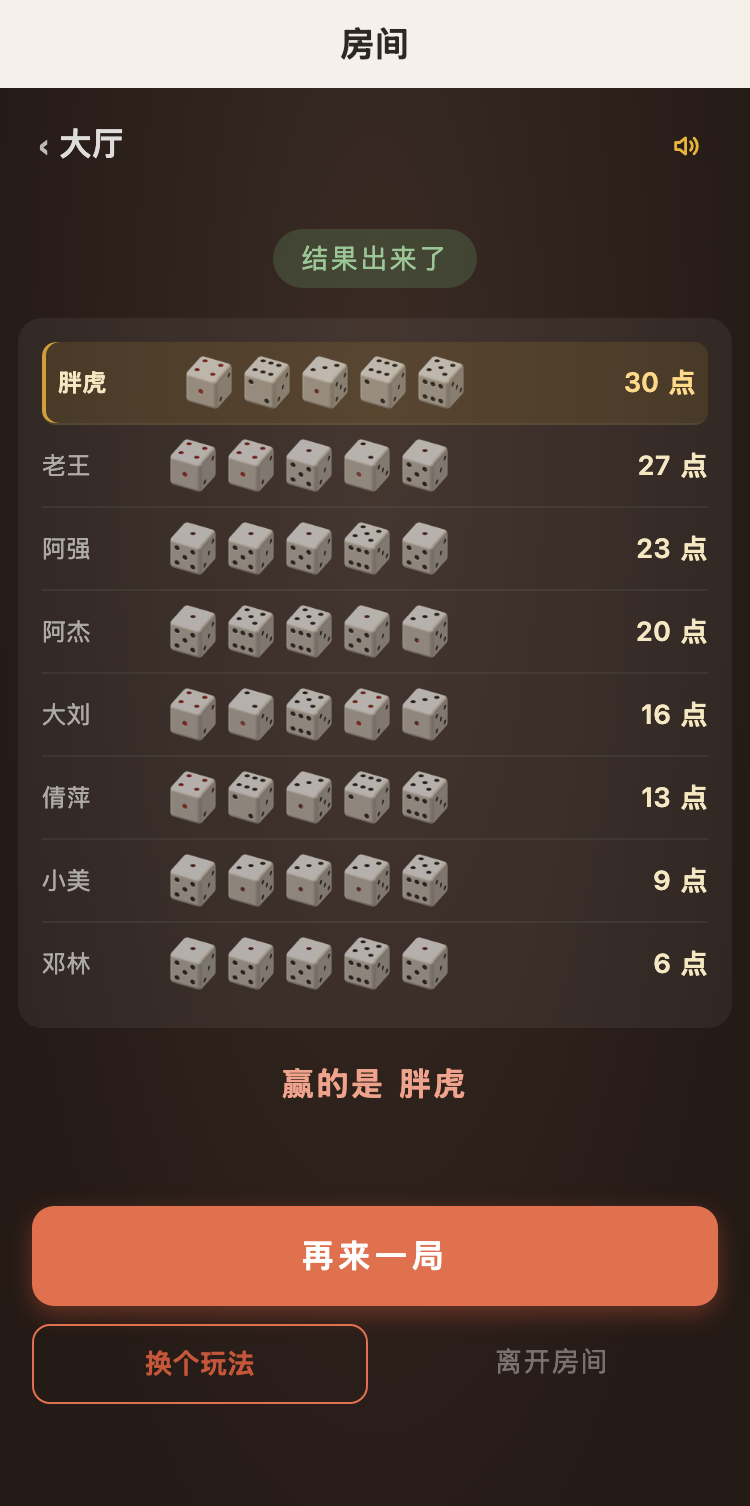
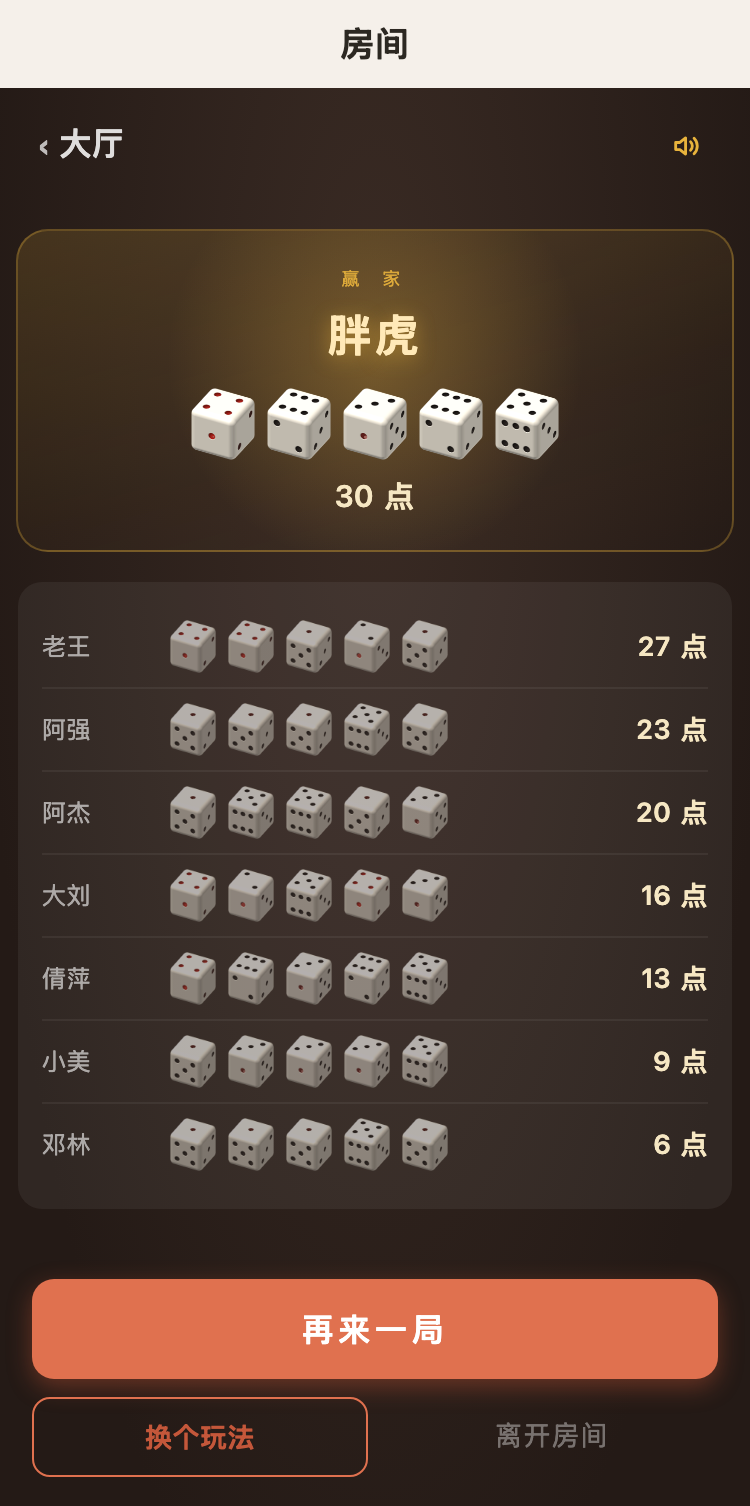
feat(3.9.45): 结算页分出层级 —— 赢家独占顶部，其余缩成列表
改造前是 8 行等大的列表：赢家只是行底色变金色，和其他人一样高 ——
一局的高光时刻看起来像一张"成绩单"，而不是"有人赢了"。

现在分两层：
① 英雄区：赢家名 + 5 颗骰子（逐颗落位动画）+ 大点数 + 光晕脉冲
② 其余人缩成小行排在下面

两个细节：
· 列表里**去掉赢家** —— 他已经在大图里，再列一遍既是重复、又正好把底部的
  「再来一局」挤下屏（8 人局实测）。
· topDice / restRanked 都是 decorate 里的派生字段，不动服务端。

diff --git a/outputs/ui/room-dice8.html b/outputs/ui/room-dice8.html
@@ -77,7 +77,8 @@ view, text, button, input, textarea { box-sizing: border-box }
   box-shadow: var(--sh-1);
 }
 .card.hl { border: 1.5px solid var(--brand); box-shadow: var(--sh-2) }
-.card.flat { background: #F5F1EB; box-shadow: none }
+
+.card.flat { background: rgba(255, 255, 255, .05); box-shadow: none }
 
 .lbl {
   font-size: 10.5px;
@@ -410,15 +411,31 @@ view, text, button, input, textarea { box-sizing: border-box }
 }
 
 
+.cs-felt-img {
+  position: absolute; left: 0; right: 0; top: 0; bottom: 0;
+  width: 100%; height: 100%;
+  
+  opacity: .92;
+}
+
+
+.cs-prop {
+  position: absolute;
+  width: 23px; height: 25px;
+  opacity: .5;
+  filter: drop-shadow(0 2px 4px rgba(0,0,0,.55));
+  pointer-events: none;
+}
+.cs-prop.p1 { left: 13px; bottom: 23px; transform: rotate(-18deg) }
+.cs-prop.p2 { right: 15px; bottom: 38px; transform: rotate(24deg); opacity: .38 }
+
+
 .cs-felt {
   position: absolute; left: 0; right: 0; top: 0; bottom: 0;
   background:
-    repeating-linear-gradient(45deg,
-      rgba(255,255,255,.014) 0 1px, rgba(0,0,0,.014) 1px 2px),
-    repeating-linear-gradient(-45deg,
-      rgba(255,255,255,.014) 0 1px, rgba(0,0,0,.014) 1px 2px),
-    radial-gradient(ellipse 80% 60% at 50% 45%,
-      #3A2E24 0%, #2A211A 45%, #1F1713 100%);
+    
+    radial-gradient(ellipse 78% 58% at 50% 42%,
+      rgba(92,74,58,.30) 0%, rgba(38,29,23,.55) 46%, rgba(24,18,15,.9) 100%);
 }
 
 .cs-spot {
@@ -679,6 +696,63 @@ view, text, button, input, textarea { box-sizing: border-box }
   background: linear-gradient(135deg, #E88060, #CE5738);
   color: #fff; font-size: 16px; font-weight: 700;
   box-shadow: 0 4px 12px rgba(206,87,56,.4);
+}
+
+
+.over-hero {
+  position: relative; overflow: hidden;
+  width: 100%;
+  padding: 17px 12px 15px;
+  border-radius: var(--r-3);
+  display: flex; flex-direction: column; align-items: center;
+  background: linear-gradient(165deg, rgba(232,179,60,.16) 0%, rgba(232,179,60,.04) 60%, rgba(0,0,0,0) 100%);
+  border: 1px solid rgba(232,179,60,.30);
+  animation: heroWin .52s cubic-bezier(.34, 1.4, .64, 1) backwards;
+}
+@keyframes heroWin {
+  0%   { opacity: 0; transform: scale(.92) translateY(7px) }
+  100% { opacity: 1; transform: scale(1) translateY(0) }
+}
+.oh-glow {
+  position: absolute; width: 210px; height: 210px; border-radius: 50%;
+  left: 50%; top: 40%; margin-left: -105px; margin-top: -105px;
+  background: radial-gradient(circle, rgba(232,179,60,.30) 0%, rgba(232,179,60,0) 70%);
+  animation: ohPulse 2.2s ease-in-out infinite;
+}
+@keyframes ohPulse {
+  0%, 100% { opacity: .75; transform: scale(1) }
+  50%      { opacity: 1;   transform: scale(1.08) }
+}
+.oh-crown {
+  position: relative;
+  font-size: 9px; letter-spacing: 4px;
+  color: rgba(232,179,60,.9);
+}
+.oh-name {
+  position: relative;
+  margin-top: 3px;
+  font-size: 22px; font-weight: 700; color: #FFE9B8;
+  letter-spacing: 1.5px;
+  text-shadow: 0 2px 10px rgba(232,179,60,.45);
+}
+.oh-dice {
+  position: relative;
+  margin-top: 9px;
+  display: flex; gap: 5px;
+}
+.oh-die {
+  width: 33px; height: 36px;
+  animation: ohDie .46s cubic-bezier(.34, 1.4, .64, 1) backwards;
+  animation-delay: calc(var(--i) * 60ms);
+}
+@keyframes ohDie {
+  0%   { opacity: 0; transform: translateY(-12px) rotate(-14deg) scale(.8) }
+  100% { opacity: 1; transform: translateY(0) rotate(0) scale(1) }
+}
+.oh-total {
+  position: relative;
+  margin-top: 6px;
+  font-size: 15px; font-weight: 700; color: #F6E7C3;
 }
 
 
@@ -1472,6 +1546,13 @@ view, text, button, input, textarea { box-sizing: border-box }
 }
 
 
+.pk-face {
+  width: 100%; height: 100%;
+  border-radius: 6px;
+  display: block;
+}
+
+
 .pk-back {
   opacity: 1;
   background:
@@ -1852,16 +1933,19 @@ view, text, button, input, textarea { box-sizing: border-box }
   
     
     <div class="center-box">
-      <div class="over-tag ok">结果出来了</div>
+      
+      <div class="over-hero">
+        <div class="oh-glow"></div>
+        <div class="oh-crown">赢 家</div>
+        <div class="oh-name">胖虎</div>
+        <div class="oh-dice">
+          <img class="oh-die" src="file:///Users/meihaoshidai/Downloads/邓林work/个人项目/小程序/miniprogram/images/dice/dice-4.png" data-mode="aspectFit" style="object-fit:contain;--i:0"><img class="oh-die" src="file:///Users/meihaoshidai/Downloads/邓林work/个人项目/小程序/miniprogram/images/dice/dice-6.png" data-mode="aspectFit" style="object-fit:contain;--i:1"><img class="oh-die" src="file:///Users/meihaoshidai/Downloads/邓林work/个人项目/小程序/miniprogram/images/dice/dice-3.png" data-mode="aspectFit" style="object-fit:contain;--i:2"><img class="oh-die" src="file:///Users/meihaoshidai/Downloads/邓林work/个人项目/小程序/miniprogram/images/dice/dice-6.png" data-mode="aspectFit" style="object-fit:contain;--i:3"><img class="oh-die" src="file:///Users/meihaoshidai/Downloads/邓林work/个人项目/小程序/miniprogram/images/dice/dice-5.png" data-mode="aspectFit" style="object-fit:contain;--i:4">
+        </div>
+        <div class="oh-total">30 点</div>
+      </div>
+
       <div class="revealbox">
-        
-        <div class="rv-row win">
-          <span class="rv-name">胖虎</span>
-          <div class="dicebox mini">
-            <img class="die-img" src="file:///Users/meihaoshidai/Downloads/邓林work/个人项目/小程序/miniprogram/images/dice/dice-4.png" data-mode="aspectFit" style="object-fit:contain;"><img class="die-img" src="file:///Users/meihaoshidai/Downloads/邓林work/个人项目/小程序/miniprogram/images/dice/dice-6.png" data-mode="aspectFit" style="object-fit:contain;"><img class="die-img" src="file:///Users/meihaoshidai/Downloads/邓林work/个人项目/小程序/miniprogram/images/dice/dice-3.png" data-mode="aspectFit" style="object-fit:contain;"><img class="die-img" src="file:///Users/meihaoshidai/Downloads/邓林work/个人项目/小程序/miniprogram/images/dice/dice-6.png" data-mode="aspectFit" style="object-fit:contain;"><img class="die-img" src="file:///Users/meihaoshidai/Downloads/邓林work/个人项目/小程序/miniprogram/images/dice/dice-5.png" data-mode="aspectFit" style="object-fit:contain;">
-          </div>
-          <span class="rv-total">30 点</span>
-        </div><div class="rv-row">
+        <div class="rv-row">
           <span class="rv-name">老王</span>
           <div class="dicebox mini">
             <img class="die-img" src="file:///Users/meihaoshidai/Downloads/邓林work/个人项目/小程序/miniprogram/images/dice/dice-4.png" data-mode="aspectFit" style="object-fit:contain;"><img class="die-img" src="file:///Users/meihaoshidai/Downloads/邓林work/个人项目/小程序/miniprogram/images/dice/dice-4.png" data-mode="aspectFit" style="object-fit:contain;"><img class="die-img" src="file:///Users/meihaoshidai/Downloads/邓林work/个人项目/小程序/miniprogram/images/dice/dice-1.png" data-mode="aspectFit" style="object-fit:contain;"><img class="die-img" src="file:///Users/meihaoshidai/Downloads/邓林work/个人项目/小程序/miniprogram/images/dice/dice-2.png" data-mode="aspectFit" style="object-fit:contain;"><img class="die-img" src="file:///Users/meihaoshidai/Downloads/邓林work/个人项目/小程序/miniprogram/images/dice/dice-1.png" data-mode="aspectFit" style="object-fit:contain;">
@@ -1905,7 +1989,6 @@ view, text, button, input, textarea { box-sizing: border-box }
           <span class="rv-total">6 点</span>
         </div>
       </div>
-      <div class="loserbox">赢的是 胖虎</div>
     </div><div class="actbar">
       <div class="btn main bigbtn">再来一局</div><div class="actrow">
         <div class="btn ghostb">换个玩法</div><div class="textbtn">离开房间</div>

diff --git a/miniprogram/pages/room/room.js b/miniprogram/pages/room/room.js
@@ -1354,6 +1354,21 @@ Page({
       room.poker.myKnownRed = isRed(room.poker.myKnownText)
     }
 
+    /*
+     * 比大小结算：把赢家的骰子单独拎出来给"英雄区"用。
+     * 服务端只给 ranked（所有人的），前端取点数最高那一行 —— 纯派生，不动服务端。
+     */
+    if (room.game === 'dice' && room.lastResult && Array.isArray(room.lastResult.ranked)) {
+      const lr = room.lastResult
+      const hero = lr.ranked.filter(x => x.total === lr.top)[0]
+      lr.topDice = (hero && hero.dice) ? hero.dice : []
+      /*
+       * 列表里**去掉赢家**：他已经在大图里了，再列一遍既是重复、又白占一行 ——
+       * 8 人局那一行正好把底部的「再来一局」挤下屏。
+       */
+      lr.restRanked = lr.ranked.filter(x => x.total !== lr.top)
+    }
+
     room.settleFoot = ''
     if (room.phase === 'over') {
       const lr = room.lastResult || {}

diff --git a/scripts/ui-render/mock/room.js b/scripts/ui-render/mock/room.js
@@ -246,7 +246,12 @@ module.exports = {
          *    模板读的是 `wx:elif="{{room.game === 'dice' && result}}"`。
          *    第一版放进了 room 里，渲染出来整块是空的（但页面不报错）。
          */
-        result: { ranked: ranked, winners: [ranked[0].name], top: ranked[0].total },
+        result: {
+          ranked: ranked, winners: [ranked[0].name], top: ranked[0].total,
+          /* 英雄区用（decorate 里算，mock 要手工给） */
+          topDice: ranked[0].dice,
+          restRanked: ranked.slice(1)
+        },
         room: pkRoom({
           game: 'dice', phase: 'over', host: true, turn: 0, count: 8,
           players: names.map((n, i) => ({
